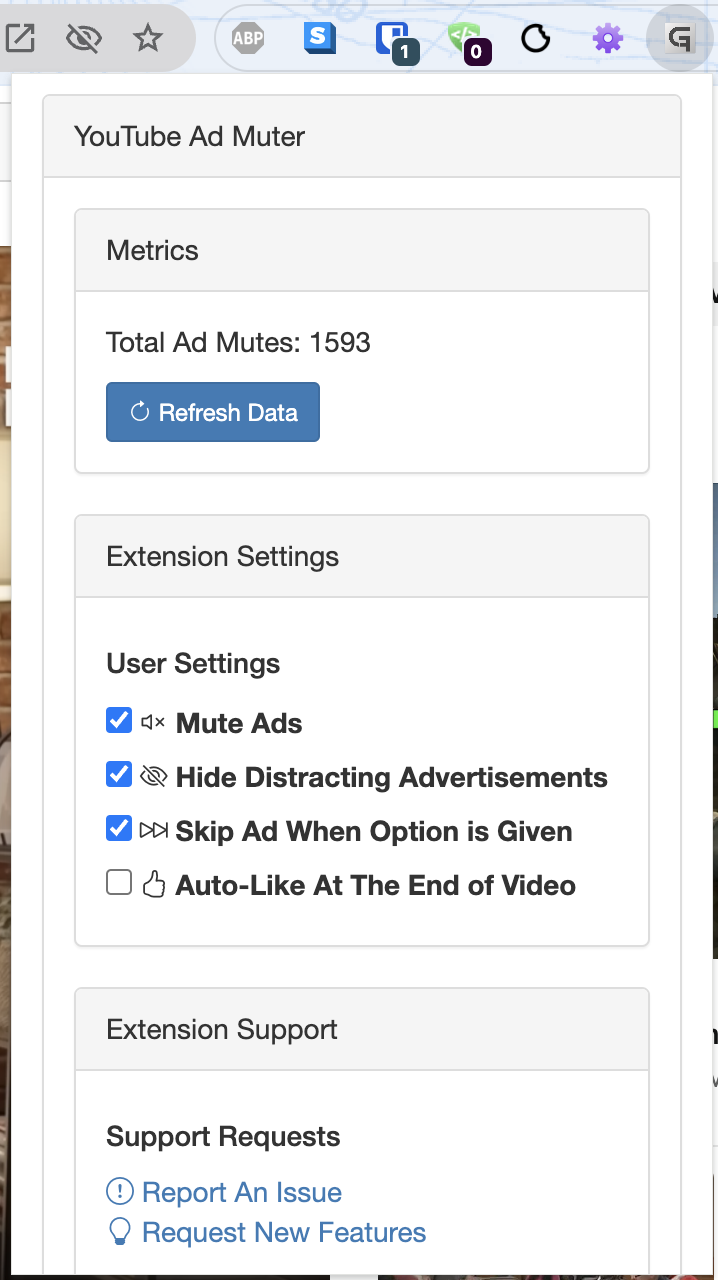
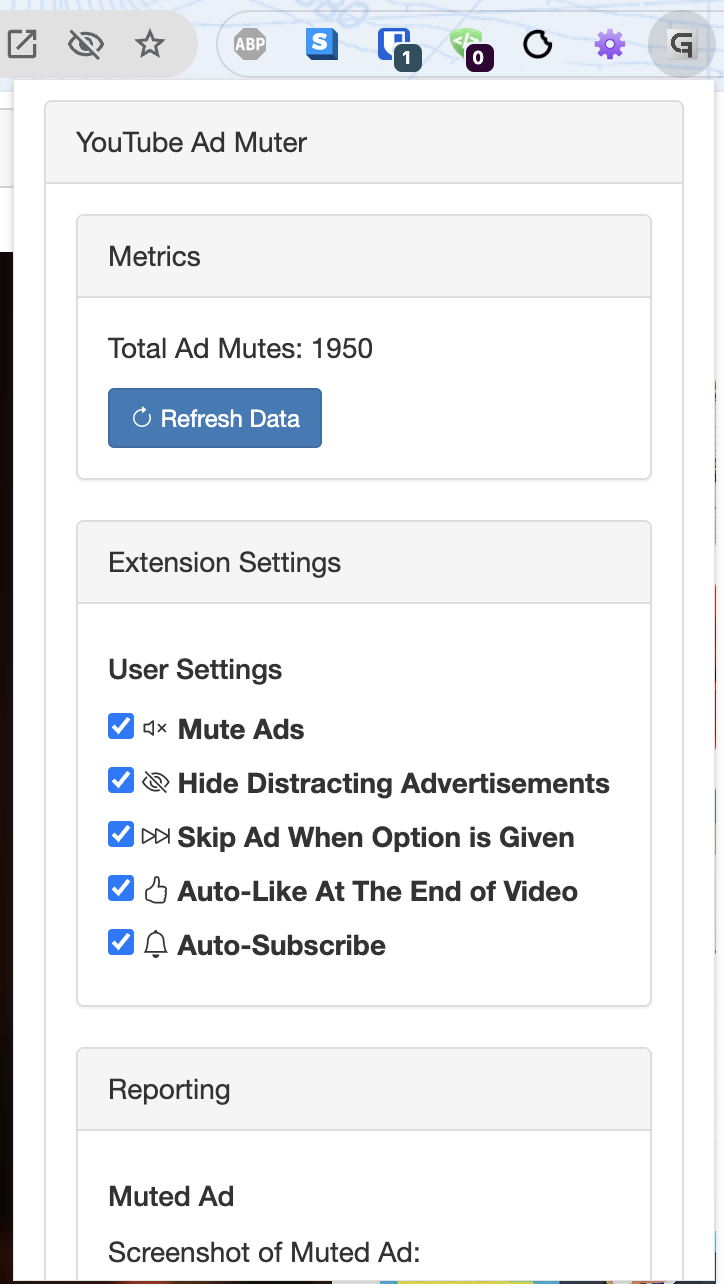
Update README with new auto-subscribe feature description
- Added a detailed description of the new auto-subscribe feature to the README.
- Included an icon next to the auto-subscribe checkbox in the popup.
- Updated the README to reflect the latest features and improvements.

diff --git a/content.js b/content.js
@@ -304,3 +304,34 @@ function takeScreenshot() {
         });
     });
 }
+
+/**
+ * Function to auto-subscribe to the channel
+ * @returns {void}
+ */
+function autoSubscribe() {
+    chrome.storage.local.get(['autoSubscribe'], function (result) {
+        const autoSubscribe = result.autoSubscribe || false;
+        if (autoSubscribe) {
+            const video = document.querySelector('video');
+            if (video) {
+                let hasSubscribed = false;
+
+                video.addEventListener('timeupdate', function () {
+                    const remainingTime = video.duration - video.currentTime;
+                    if (remainingTime <= 10 && !hasSubscribed) {
+                        const subscribeButton = document.querySelector('ytd-subscribe-button-renderer button');
+                        const channelNameElement = document.querySelector('#channel-name .yt-simple-endpoint');
+                        const channelName = channelNameElement ? channelNameElement.innerText : 'Unknown Channel';
+
+                        if (subscribeButton && subscribeButton.innerText.toLowerCase().includes('subscribe')) {
+                            subscribeButton.click();
+                            hasSubscribed = true;
+                            console.log(`User has been auto-subscribed to the channel: ${channelName}`);
+                        }
+                    }
+                });
+            }
+        }
+    });
+}

diff --git a/popup.js b/popup.js
@@ -83,6 +83,18 @@ function updateLastScreenshot() {
     });
 }
 
+// Function to initialize the auto-subscribe checkbox
+function initializeAutoSubscribeCheckbox() {
+    const autoSubscribeCheckbox = document.getElementById('autoSubscribeCheckbox');
+    chrome.storage.local.get(['autoSubscribe'], function (result) {
+        autoSubscribeCheckbox.checked = result.autoSubscribe || false;
+    });
+
+    autoSubscribeCheckbox.addEventListener('change', function () {
+        chrome.storage.local.set({ autoSubscribe: this.checked });
+    });
+}
+
 // Call the function to add the event listener
 addLoadDataButtonListener();
 
@@ -91,6 +103,7 @@ document.addEventListener('DOMContentLoaded', function () {
     updateTotalCount();
     initializeCheckboxes();
     updateLastScreenshot();
+    initializeAutoSubscribeCheckbox(); // Initialize the auto-subscribe checkbox
 });
 
 // Add event listener to the screenshot image to open it in a modal

diff --git a/popup.html b/popup.html
@@ -78,6 +78,11 @@
                     <a id="downloadLink" href="#" style="display: none;">
                       <i class="bi bi-download"></i> Download Video
                     </a>
+                    <!-- Add the new checkbox for Auto-Subscribe -->
+                    <label>
+                      <input type="checkbox" id="autoSubscribeCheckbox">
+                      <i class="bi bi-bell"></i> Auto-Subscribe
+                    </label>
                   </div>
                 </div>
 

diff --git a/README.md b/README.md
@@ -18,6 +18,7 @@ YouTube Ad Muter: The ultimate sidekick for your YouTube binge sessions. This Ch
 - The only extension that's cracked the YouTube code – helping creators go viral while you binge in peace
 - Sneak Peek at the Silenced: Our extension just leveled up, fam! Now it's not just muting ads, it's serving up the tea on what you missed. Every time it drops the mute hammer on an ad, it snaps a pic faster than you can say "screenshot". Head to the all-new reporting zone to peep the gallery of cringe we've saved your ears from. It's like a museum of "almost gotchas" - you get to see all the ads that tried to crash your vibe, but couldn't. Talk about receipts! Now you can literally see how much peace and quiet we're serving up. It's not just ad muting anymore, it's a whole silent disco up in here!
 <img src="images/reporting-screenshot.png" alt="Reporting Feature Screenshot" width="400px">
+- Auto-Sub Swag: Never ghost your fave creators again! We've added a feature that's slicker than your Instagram feed. Hit that magic button and boom - you're auto-subscribed faster than you can double-tap a thirst trap. It's like having a hype manager for your YouTube game. No more "oops, forgot to sub" moments. You're out here spreading love to content creators like it's your job. It's not just supporting, it's straight-up stanning without lifting a finger. Keep your subscription list fresher than your playlist and never miss a drop from your squad. It's the set-it-and-forget-it of the YouTube world, fam. Show love, stay connected, and keep your feed poppin' with zero effort. That's what we call big brain energy!
 
 
 ## Installation
